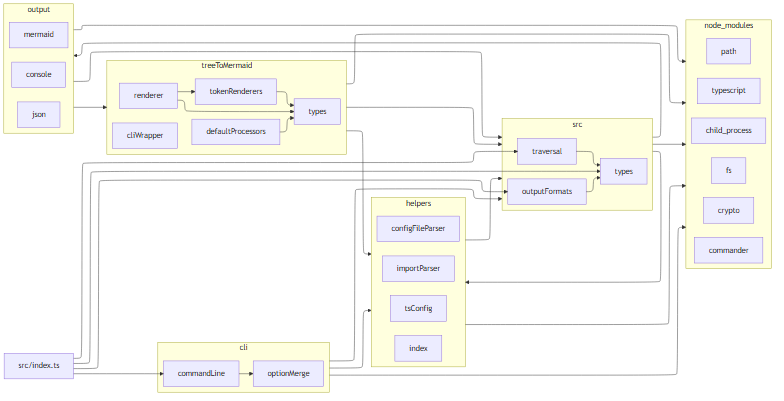
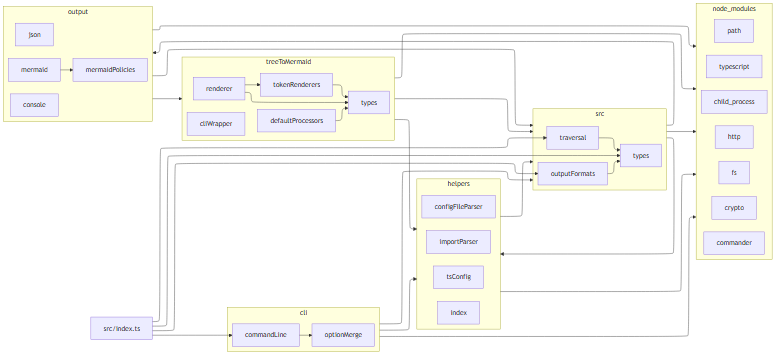
38 More configuration options for mermaid

Changed region(s): [[0.0, 0.0, 1.0, 0.9805]]

diff --git a/src/treeToMermaid/defaultProcessors.ts b/src/treeToMermaid/defaultProcessors.ts
@@ -1,7 +1,10 @@
 import { ResultTreeNode, MermaidFormatOptions } from "../types";
-import { MermaidProcessor, MermaidToken } from "./types";
+import { MermaidProcessor } from "./types";
 
 export const getDefaultProcessors = (opt: MermaidFormatOptions): Record<string, MermaidProcessor<ResultTreeNode>> => {
+    const getSubgraphName = opt.policies?.subgraph as (node: ResultTreeNode) => string | undefined;
+    const getNodeName = opt.policies?.nodeName as (node: ResultTreeNode) => string;
+
     if (opt.chartType === "tree") {
         return {
             graph: () => ({
@@ -10,7 +13,7 @@ export const getDefaultProcessors = (opt: MermaidFormatOptions): Record<string, 
             }),
             node: (current?: ResultTreeNode) => ({
                 id: current?.uniqueId!,
-                name: current?.moduleName,
+                name: getNodeName ? getNodeName(current!) : current?.moduleName,
             }),
             link: (current?: ResultTreeNode, parent?: ResultTreeNode) => {
                 if (current && parent) {
@@ -40,16 +43,16 @@ export const getDefaultProcessors = (opt: MermaidFormatOptions): Record<string, 
             }
             return {
                 id: current.id!,
-                name: current.moduleName,
-                groupName: opt.extractGroupName ? opt.extractGroupName(current) : undefined,
+                name: getNodeName ? getNodeName(current!) : current?.moduleName,
+                groupName: getSubgraphName ? getSubgraphName(current) : undefined,
             };
         },
         link: (current?: ResultTreeNode, parent?: ResultTreeNode) => {
             if (!current || !parent) {
                 return undefined;
             }
-            const startGroup = opt.extractGroupName ? opt.extractGroupName(parent) : undefined;
-            const endGroup = opt.extractGroupName ? opt.extractGroupName(current) : undefined;
+            const startGroup = getSubgraphName ? getSubgraphName(parent) : undefined;
+            const endGroup = getSubgraphName ? getSubgraphName(current) : undefined;
             let startId;
             let endId;
             if (startGroup === endGroup || !startGroup) {

diff --git a/src/output/mermaid.ts b/src/output/mermaid.ts
@@ -5,26 +5,23 @@ import { mermaidRenderer } from "../treeToMermaid/renderer";
 import { getDefaultProcessors } from "../treeToMermaid/defaultProcessors";
 import { MermaidToken } from "../treeToMermaid/types";
 import { runMermaidCli } from "../treeToMermaid/cliWrapper";
+import { getMermaidGroupNamePolicy, getMermaidNodeNamePolicy } from "./mermaidPolicies";
 
 const defaultOptions: MermaidFormatOptions = {
     dir: "LR",
     outputPath: "exports",
     outputName: "export",
     chartType: "graph",
-    extractGroupName: (node: ResultTreeNode) => {
-        const ap = node.absolutePath || "";
-        if (ap.startsWith("node_modules") || node.type === "Unknown") {
-            return "node_modules";
-        } else {
-            const splitted = ap.split("/");
-            return splitted[splitted.length - 2] || undefined;
-        }
-    },
 };
 
 export const mermaidOutputPlugin = (options: MermaidFormatOptions) => async (imports: ResultTreeNode[]) => {
     const opt = { ...defaultOptions, ...(options || {}) };
     const output = path.resolve(opt.outputPath!, `${opt.outputName}.md`);
+
+    opt.policies = {
+        subgraph: getMermaidGroupNamePolicy(opt.policies?.subgraph),
+        nodeName: getMermaidNodeNamePolicy(opt.policies?.nodeName),
+    };
 
     const processor = mermaidRenderer.create<ResultTreeNode>();
     const defaultProcessors = getDefaultProcessors(opt);

diff --git a/src/output/mermaidPolicies.ts b/src/output/mermaidPolicies.ts
@@ -1,0 +1,32 @@
+import type { MermaidNodeNamePolicy, MermaidSubgraphPolicy, ResultTreeNode } from "../types";
+
+const mermaidSubgraphPolicies = {
+    none: () => undefined,
+    default: (node: ResultTreeNode) => {
+        const ap = node.absolutePath || "";
+        if (ap.startsWith("node_modules") || node.type === "Unknown") {
+            return "node_modules";
+        } else {
+            const splitted = ap.split("/");
+            return splitted[splitted.length - 2] || undefined;
+        }
+    },
+};
+
+const mermaidNodeNamePolicy = {
+    default: (node: ResultTreeNode) => node.moduleName,
+};
+
+export const getMermaidGroupNamePolicy = (policy?: MermaidSubgraphPolicy) => {
+    if (typeof policy === "function") {
+        return policy;
+    }
+    return (policy && mermaidSubgraphPolicies[policy]) ?? mermaidSubgraphPolicies.default;
+};
+
+export const getMermaidNodeNamePolicy = (policy?: MermaidNodeNamePolicy) => {
+    if (typeof policy === "function") {
+        return policy;
+    }
+    return (policy && mermaidNodeNamePolicy[policy]) ?? mermaidNodeNamePolicy.default;
+};

diff --git a/src/types.d.ts b/src/types.d.ts
@@ -49,11 +49,17 @@ export interface JsonFormatOptions {
     outputName?: string;
 }
 
+export type MermaidSubgraphPolicy = "none" | "default" | ((node: ResultTreeNode) => string | undefined);
+export type MermaidNodeNamePolicy = "default" | ((node: ResultTreeNode) => string);
+
 export interface MermaidFormatOptions extends JsonFormatOptions {
     dir?: "TB" | "BT" | "LR" | "RL";
     chartType?: "tree" | "graph";
-    extractGroupName?: (node: ResultTreeNode) => string | undefined;
     cliOptions?: MermaidCliOptions;
+    policies?: {
+        subgraph?: MermaidSubgraphPolicy;
+        nodeName?: MermaidNodeNamePolicy;
+    };
 }
 
 export interface MermaidCliOptions {

diff --git a/ts-insp.config.ts b/ts-insp.config.ts
@@ -22,6 +22,10 @@ const config: Partial<InspOptions> = {
             dir: "LR",
             outputName: "MermaidExample",
             chartType: "graph",
+            policies: {
+                subgraph: "default",
+                nodeName: "default",
+            },
             cliOptions: {
                 mmdcPathToken: "{mmdc}",
                 inputPathToken: "{inputPath}",

diff --git a/docs/MermaidExample.md b/docs/MermaidExample.md
@@ -18,6 +18,7 @@ d6fe1d0be6347b8ef2427fa629c04485["path"]
 5ae9b7f211e23aac3df5f2b8f3b8eada["crypto"]
 590e227ecebc0951e8994717b1bc8669["commander"]
 6bdd121cf07238ae4acd0de370dd13bf["child_process"]
+80791b3ae7002cb88c246876d9faa8f8["http"]
 end
 subgraph helpers
 89368ad2b907401c75ac83d0c8f51150["importParser"]
@@ -33,6 +34,7 @@ subgraph output
 7029e3f6954c28b14ceaef910bc2c07b["console"]
 1cdc6bd921f66f50622b5c56a23a8d72["json"]
 3c9aeb9e1a663982bf18432623f081c0["mermaid"]
+02be73a92c1e73068fee3f6a5570552a["mermaidPolicies"]
 end
 subgraph treeToMermaid
 5fc5c7f77b9094999991e4a88935bbc8["renderer"]
@@ -66,5 +68,6 @@ ba94a21f1b99f22bcbee495161be6017 ba94a21f1b99f22bcbee495161be6017_43b2c294408e9a
 treeToMermaid treeToMermaid_src@--> src
 a7c2c5aebf261da9ed0ec6111e63d2d3 a7c2c5aebf261da9ed0ec6111e63d2d3_43b2c294408e9aca405ff8cc04120742@--> 43b2c294408e9aca405ff8cc04120742
 treeToMermaid treeToMermaid_node_modules@--> node_modules
+3c9aeb9e1a663982bf18432623f081c0 3c9aeb9e1a663982bf18432623f081c0_02be73a92c1e73068fee3f6a5570552a@--> 02be73a92c1e73068fee3f6a5570552a
 
 ```
